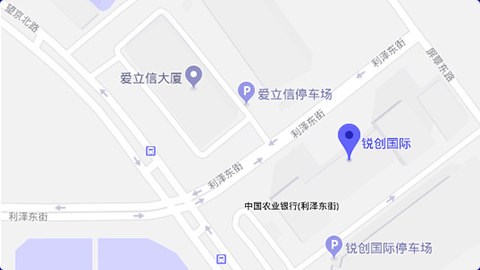
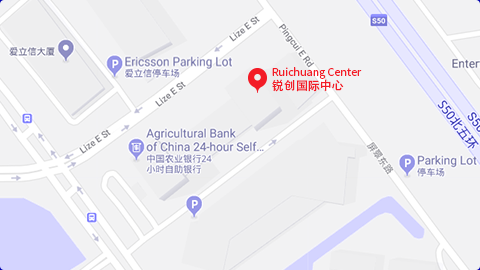
英文版页面改版

diff --git a/public/css/index.css b/public/css/index.css
@@ -1,6 +1,3 @@
-html{
-  scroll-behavior: smooth;
-}
 
 .header{
     text-align: center;
@@ -197,7 +194,7 @@ html{
 	font-family: Lato;
 	font-size: 1.2em;
 	font-weight: 300;
-	padding: 30px 25px 33px 25px;
+	padding: 30px 15px 33px 15px;
 }
 
 .navbar-inverse .navbar-nav li a:hover {
@@ -641,9 +638,9 @@ textarea {
 }
 
 .directory-item{
-  margin: 1.3rem 0;
-   color: rgba(255, 255, 255, 0.6);;
-   font-size: 1.4rem;
+  margin: 1rem 0;
+  color: rgba(255, 255, 255, 0.6);
+  font-size: 1.2rem;
 }
 
 .directory-item:nth-of-type(1){

diff --git a/resources/views/english.blade.php b/resources/views/english.blade.php
@@ -40,20 +40,19 @@
                             <div class="collapse navbar-collapse" id="bs-example-navbar-collapse-1" style="padding:30px;">
                                 <div class="img-container">
                                     <img src="{{ asset('images/english/images/logo.png') }}" alt="">
-                                    <div
-                                            style="font-size: 14px; font-weight: 700; text-indent: 5px; letter-spacing: 3.5px;">
+                                    <div style="font-size: 14px; font-weight: 700; text-indent: 5px; letter-spacing: 3.5px;">
                                         <a href="javascript:void(0);" style="color: #999;text-decoration: none;cursor:
                         default;">ENGLISH</a>&nbsp;|
                                         <a href="{{ route('home') }}" style="color: #000;text-decoration: none;">中文版</a>
                                     </div>
                                 </div>
                                 <ul class="nav navbar-nav" id="nav">
-
-                                    <li><a class="nav-about nav-active" style="font-weight:bold;"> ABOUT US </a></li>
-                                    <li><a class="nav-res" style="font-weight:bold;"> RESOURCES </a></li>
-                                    <li><a class="nav-compagin" style="font-weight:bold;"> COMPAGIN </a></li>
-                                    <li><a class="nav-clients" style="font-weight:bold;"> CLIENTS </a></li>
-                                    <li><a class="nav-contact" style="font-weight:bold;"> Contact </a></li>
+                                    <li><a class="nav-about" style="font-weight:bold;cursor:pointer;"> ABOUT US </a></li>
+                                    <li><a class="nav-res" style="font-weight:bold;cursor:pointer;"> RESOURCES </a></li>
+                                    <li><a class="nav-service" style="font-weight:bold;cursor:pointer;"> SERVICES </a></li>
+                                    <li><a class="nav-compagin" style="font-weight:bold;cursor:pointer;"> CAMPAIGN </a></li>
+                                    <li><a class="nav-clients" style="font-weight:bold;cursor:pointer;"> CLIENTS </a></li>
+                                    <li><a class="nav-contact" style="font-weight:bold;cursor:pointer;"> CONTACT </a></li>
                                 </ul>
                             </div>
                             <div class="text">
@@ -162,8 +161,8 @@
                         interactive advertising marketing service provider that internationalize Chinese products by both branding
                         and performance marketing.
                     </p>
-                    <button type="button" class="btn btn-danger dropdown-toggle" data-toggle="dropdown" aria-haspopup="true"
-                            aria-expanded="false">More About Us</button>
+                    <button type="button" class="btn btn-danger dropdown-toggle more-about-us" data-toggle="dropdown"
+                            aria-haspopup="true" aria-expanded="false">More About Us</button>
                 </div>
                 <div class="col-lg-6 resource-images ">
                     <div class="flex-resource-image"><img src="{{ asset('images/english/images/PrintMedia.png') }}" alt="">
@@ -189,7 +188,7 @@
         </div>
 
         <div class="services-container body-section-wrapper">
-            <h1 class="service-tittle">
+            <h1 class="service-tittle" id="service">
                 SERVICES
             </h1>
             <div class="gallery">
@@ -246,7 +245,7 @@
                     </div>
 
                     <div class="flex-slide influnce">
-                        <div class="flex-title">Influencers Agentr</div>
+                        <div class="flex-title">Influencers Agent</div>
                         <div class="flex-about">
                             <p>We have wide and close connection to Influencers all around the world. Key Opinion Leaders
                                 (KOL),
@@ -268,53 +267,53 @@
                 <div class="campagin-gallery">
                     <div class="campagin-gallery-image">
                         <div class="text-wrapper">
-                            <h4>Oneplus——India——Flagship Store Opening Ceremony</h4>
+                            <h4>Oneplus<br> India <br> Flagship Store Opening Ceremony</h4>
                             <h6>Packing Oneplus flagship store into a New Year’s gift, making a stir on the most prosperous street
                                 in Bangalore</h6>
                         </div>
                     </div>
                     <div class="campagin-gallery-image">
                         <div class="text-wrapper">
-                            <h4>Metisu——Europe,America——KOL Promotion</h4>
+                            <h4>Metisu <br> Europe,America <br>KOL Promotion</h4>
                             <h6>A collection of 100 European and American fashion influencers, promote the brand on social media
                             </h6>
                         </div>
                     </div>
                     <div class="campagin-gallery-image">
                         <div class="text-wrapper">
-                            <h4>Airbnb——China——Daily Public Relations Activities</h4>
+                            <h4>Airbnb <br>China <br>Daily Public Relations Activities</h4>
                             <h6>Chinese localization promotion for a international brand</h6>
                         </div>
                     </div>
                     <div class="campagin-gallery-image">
                         <div class="text-wrapper">
-                            <h4>Film Dominator——New York——Nasdaq Digital Boards</h4>
+                            <h4>Film Dominator <br>New York <br>Nasdaq Digital Boards</h4>
                             <h6>Chinese film unveiled at the crossroads of the world</h6>
                         </div>
                     </div>
                     <div class="campagin-gallery-image">
                         <div class="text-wrapper">
-                            <h4>Music APP——Poland——OOH</h4>
+                            <h4>Music APP <br>Poland <br>OOH</h4>
                             <h6>OOH advertising in subway to echance brand awareness</h6>
                         </div>
                     </div>
                     <div class="campagin-gallery-image">
                         <div class="text-wrapper">
-                            <h4>Sichuan Tourism Development Commission——Italy,Poland,Czech Republic ——OOH</h4>
+                            <h4>Sichuan Tourism Development Commission<br>Italy,Poland,Czech Republic <br>OOH</h4>
                             <h6>Bus advertising, the image of the Hometown of Pandas Shuttles through the streets of Europe
                             </h6>
                         </div>
                     </div>
                     <div class="campagin-gallery-image">
                         <div class="text-wrapper">
-                            <h4>Hainan Tourism Development Commission——Russia——OOH+Magazine+Online Advertising</h4>
+                            <h4>Hainan Tourism Development Commission<br>Russia<br>OOH+Magazine+Online Advertising</h4>
                             <h6>Integrate media resources, optimize the plan to enhance Hainan's tourism image online and offline
                             </h6>
                         </div>
                     </div>
                     <div class="campagin-gallery-image">
                         <div class="text-wrapper">
-                            <h4>UC news——India——TV Integration in news programs</h4>
+                            <h4>UC news<br>India<br>TV Integration in news programs</h4>
                             <h6>The deep integration in the most influential Hindi news programs in India has made UC news quickly
                                 localized, and its
                                 brand awareness and reputation have increased dramatically.</h6>
@@ -362,33 +361,36 @@
     <div class="container">
         <h1 class="title san">CONTACT US</h1>
         <div class="row">
-            <div class="col-md-4">
-                <div class="col-md-12 directory-item">
+            <div class="col-md-4 nav" style="text-align:left; padding-left:150px;">
+                <div class="col-md-12 directory-item nav-about" style="cursor:pointer;">
                     ABOUT US
                     <img src="{{ asset('images/english/images/arrow.png') }}" alt="" style="margin-left: 3px; color: rgba(255, 255, 255, 0.6);;">
                 </div>
-                <div class="col-md-12 directory-item">
-                    ABOUT US
+                <div class="col-md-12 directory-item nav-res" style="cursor:pointer;">
+                    RESOURCES
                     <img src="{{ asset('images/english/images/arrow.png') }}" alt="" style="margin-left: 3px; color: rgba(255, 255, 255, 0.6);;">
                 </div>
-                <div class="col-md-12 directory-item">
-                    ABOUT US
+                <div class="col-md-12 directory-item nav-service" style="cursor:pointer;">
+                    SERVICES
                     <img src="{{ asset('images/english/images/arrow.png') }}" alt="" style="margin-left: 3px; color: rgba(255, 255, 255, 0.6);;">
                 </div>
-                <div class="col-md-12 directory-item">
-                    ABOUT US
+                <div class="col-md-12 directory-item nav-compagin" style="cursor:pointer;">
+                    CAMPAIGN
                     <img src="{{ asset('images/english/images/arrow.png') }}" alt="" style="margin-left: 3px; color: rgba(255, 255, 255, 0.6);;">
                 </div>
-                <div class="col-md-12 directory-item">
-                    ABOUT US
+                <div class="col-md-12 directory-item nav-clients" style="cursor:pointer;">
+                    CLIENTS
+                    <img src="{{ asset('images/english/images/arrow.png') }}" alt="" style="margin-left: 3px; color: rgba(255, 255, 255, 0.6);;">
+                </div>
+                <div class="col-md-12 directory-item nav-contact" style="cursor:pointer;">
+                    CONTACT
                     <img src="{{ asset('images/english/images/arrow.png') }}" alt="" style="margin-left: 3px; color: rgba(255, 255, 255, 0.6);;">
                 </div>
             </div>
 
             <div class="col-md-4 contact-info">
                 <p class="address">
-                    Building B Ruichuang Center,
-                </p>
+                    Building B Ruichuang Center,</p>
                 <p class="address"> Wangjing East Road,</p>
                 <p class="address"> Chaoyang District,</p>
                 <p class="address"> Beijing, 100102,</p>
@@ -396,16 +398,32 @@
                 <p class="mail">info@zetin.cn</p>
 
                 <div class="social-media col-md-12">
-                    <div class="col-lg-2"><img src="{{ asset('images/english/images/Facebook.png') }}" alt=""></div>
-                    <div class="col-lg-2"><img src="{{ asset('images/english/images/Ins.png') }}" alt=""></div>
-                    <div class="col-lg-2"><img src="{{ asset('images/english/images/Pinterest.png') }}" alt=""></div>
-                    <div class="col-lg-2"><img src="{{ asset('images/english/images/YouTube.png') }}" alt=""></div>
+                    <div class="col-lg-2">
+                        <a href="https://www.facebook.com/zetinmediagroup/?modal=admin_todo_tour">
+                            <img src="{{ asset('images/english/images/Facebook.png') }}" alt="">
+                        </a>
+                    </div>
+                    <div class="col-lg-2">
+                        <a href="https://www.instagram.com/zetinmedia/">
+                            <img src="{{ asset('images/english/images/Ins.png') }}" alt="">
+                        </a>
+                    </div>
+                    <div class="col-lg-2">
+                        <a href="https://weibo.com/u/6343057097">
+                            <img src="{{ asset('images/english/images/weibo.png') }}" alt="">
+                        </a>
+                    </div>
+                    <div class="col-lg-2">
+                        <a href="https://open.weixin.qq.com/qr/code?username=ZetinMedia">
+                            <img src="{{ asset('images/english/images/weixin.png') }}" alt="">
+                        </a>
+                    </div>
                 </div>
 
 
             </div>
 
-            <div class="location-map col-md-4">
+            <div class="location-map col-md-6">
                 <img src="{{ asset('images/english/images/map.png') }}" alt="">
             </div>
         </div>
@@ -416,28 +434,34 @@
 <script>
 
     function scrollToElment(el) {
-        const { y } = el.getBoundingClientRect()
-        window.scrollTo(0, y)
+        $('html,body').animate({ scrollTop: $(el).offset().top }, 500)
     }
 
     const selectById = id => document.querySelector(`#${id}`)
-    document.getElementById('nav').addEventListener('click', (ev) => {
-        const className = ev.target.className
+
+    const handleNavClick = (ev) => {
+        const className = ev.target.className.match(/nav(\-).*/g)[0]
+
         const dic = {
             'nav-about': 'about',
             'nav-res': 'resource',
             'nav-compagin': 'compagin',
             'nav-clients': 'clients',
-            'nav-contact': 'contact'
+            'nav-contact': 'contact',
+            'nav-service': 'service',
         }
+
         if (dic[className]) {
             const el = selectById(dic[className])
             scrollToElment(el)
         } else {
             console.log(`not found el in dict : #${className}`)
         }
-    })
+    }
 
+    document.getElementById('nav').addEventListener('click', handleNavClick)
+    document.getElementsByClassName('nav')[1].addEventListener('click', handleNavClick)
+    document.getElementsByClassName('more-about-us')[0].addEventListener('click', () => scrollToElment(selectById('service')))
     var clients1 = document.querySelector('#clients1')
     var clients2 = document.querySelector('#clients2')
     clients2.addEventListener('scroll', e => {
@@ -450,8 +474,8 @@
         console.log(e.wheelDelta)
         clients2.scrollLeft = clients1.scrollLeft = clients2.scrollLeft += (delta < 0 ? 1 : -1) * 80;
     }
-    $(clients2).bind('mousewheel DOMMouseScroll',onwheel)
-    $(clients1).bind('mousewheel DOMMouseScroll',onwheel)
+    $(clients2).bind('mousewheel DOMMouseScroll', onwheel)
+    $(clients1).bind('mousewheel DOMMouseScroll', onwheel)
 
 </script>
 
